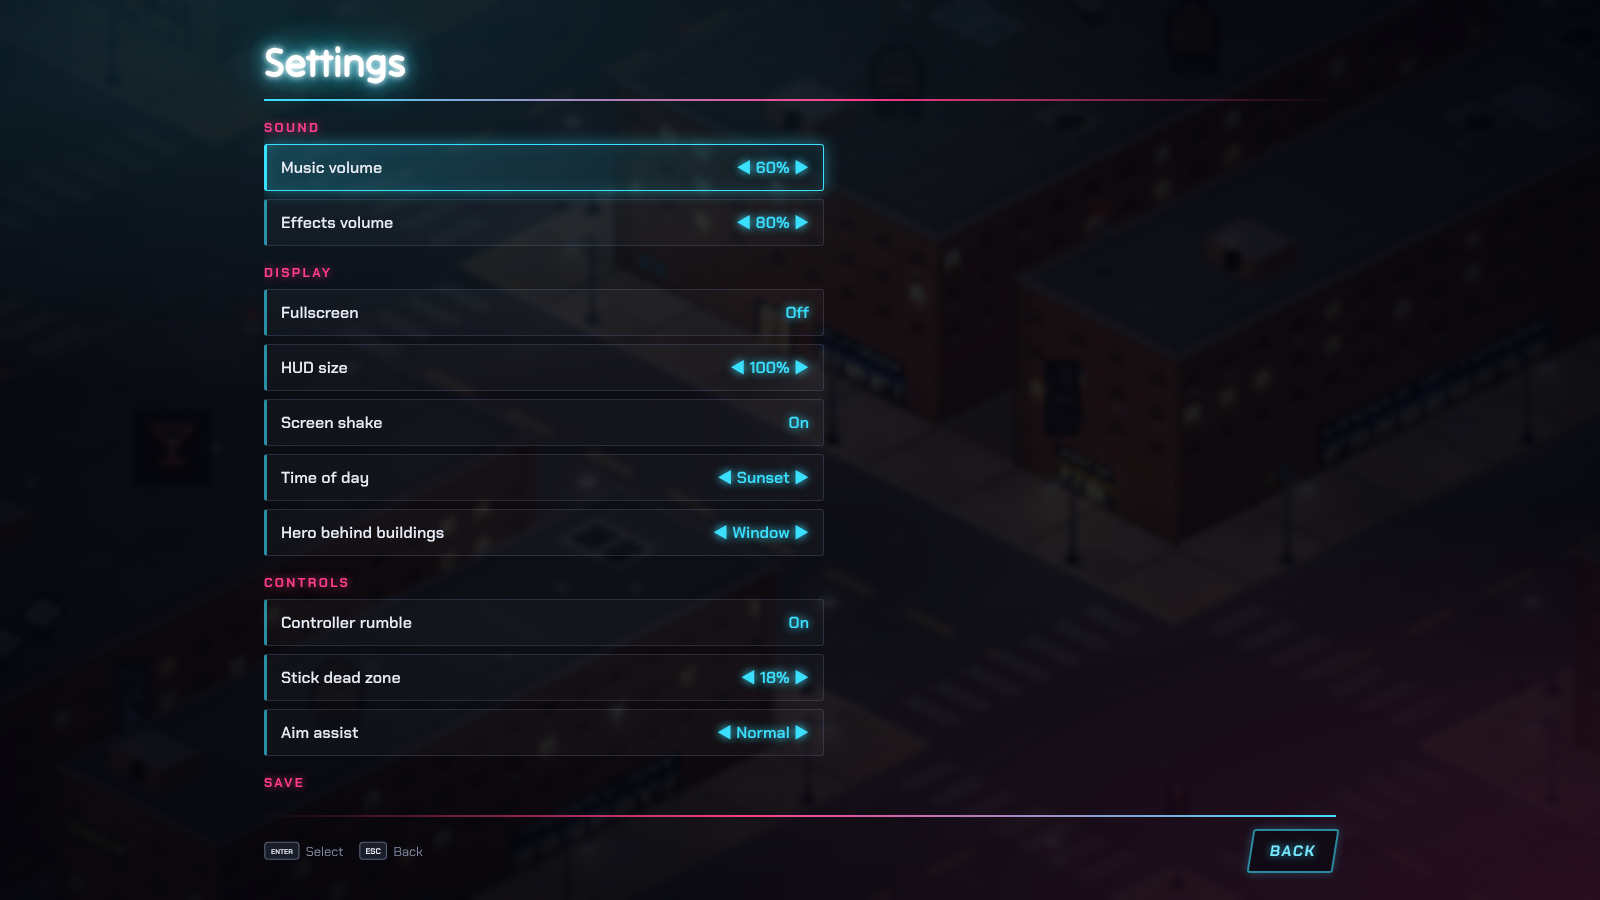
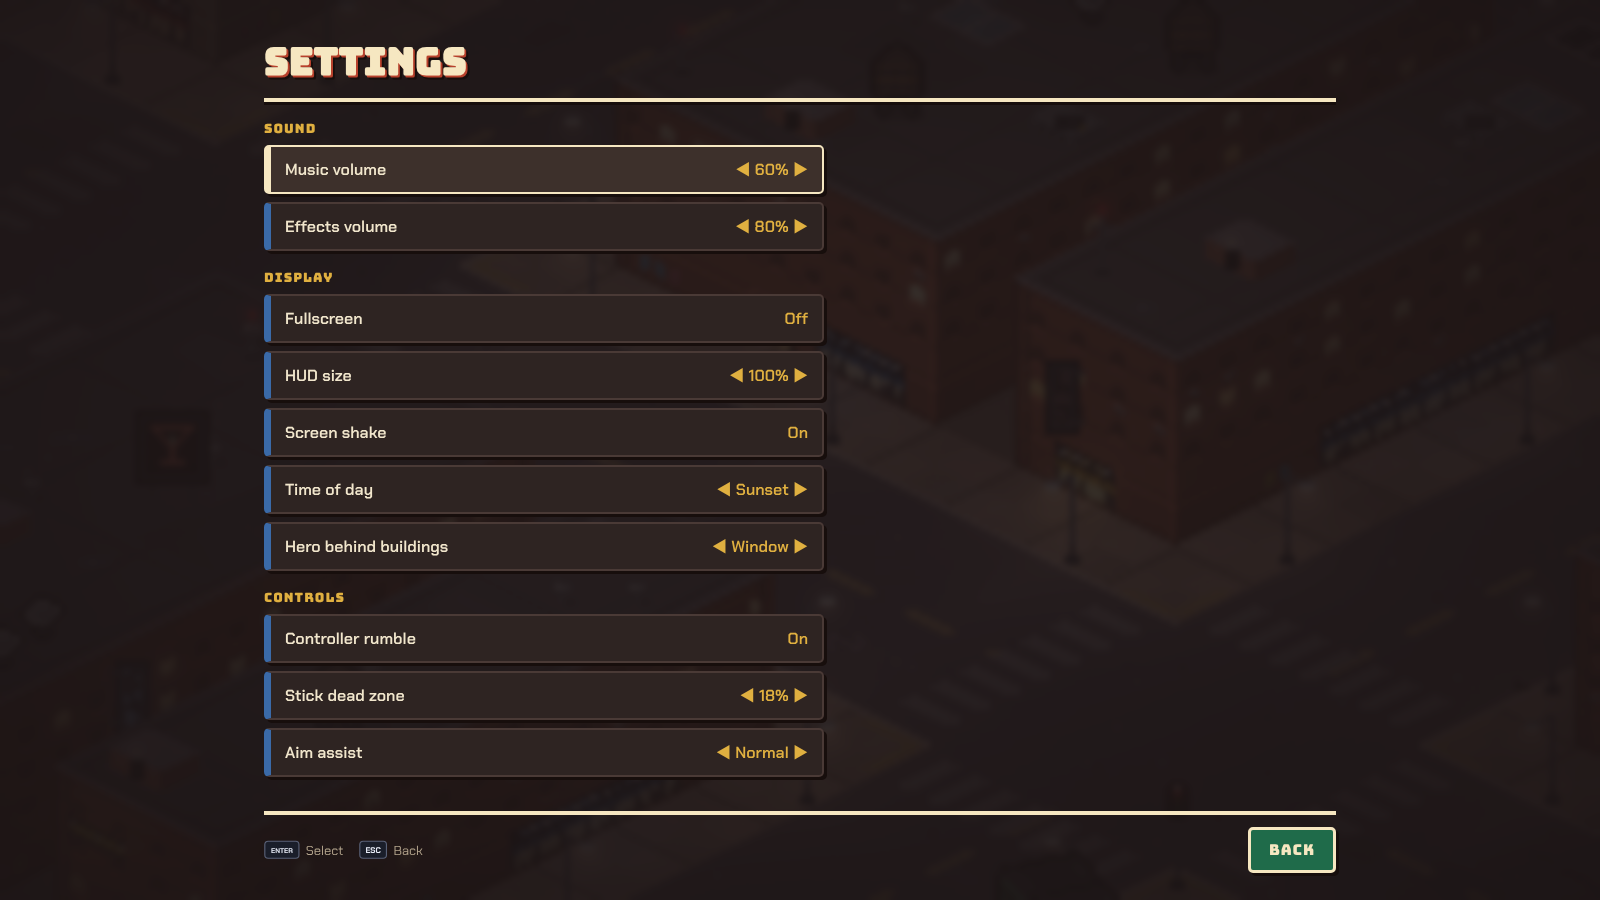
Pause menu and HUD in the painted-sign style
The pause menu matches the title: cream sign lettering with a brick
shadow, green plate buttons, cards with a hard drop shadow, no glow.
The HUD keeps its layout; its plates, outlines and big lettering are
painted with hard shadows instead of neon. The hint also sits clear of
the boss name now.

Claude-Session: https://claude.ai/code/session_01TQrqJid8SEs5fJFtrpg3VS

Changed region(s): [[0.1562, 0.0311, 0.8438, 0.8711], [0.1562, 0.9022, 0.8438, 0.9956]]

diff --git a/dist/gravitation.html b/dist/gravitation.html
@@ -181,6 +181,32 @@ button{font-family:inherit;color:inherit}
 #title .mbtn[disabled]{opacity:.5;background:#4a4a4a;box-shadow:4px 4px 0 #2a1614}
 #title .padstat{color:#e8dcc0;text-shadow:1px 1px 0 #2a1614}
 #title .padstat.ok .dot{background:#6fd08a;box-shadow:none}#title .padstat.warn .dot{box-shadow:none}
+/* ---------- pause menu: painted-sign look to match the title (no glow). Scoped to #pause so it wins over the neon theme above. ---------- */
+#pause{--gold:#e0b040;--good:#5aa8e0;--evil:#d0503a;--ink:#f1e6cc;--dim:#b5a68e;background:rgba(30,22,22,.9);backdrop-filter:blur(3px);color:var(--ink)}
+#pause .phead{border-bottom:4px solid #f6e7c1;border-image:none;box-shadow:0 3px 0 #170e0c}
+#pause .pfoot{border-top:4px solid #f6e7c1;border-image:none}
+#pause .ptitle{font-family:"Bungee","Impact","Arial Black",var(--font-body);font-size:38px;color:#f6e7c1;text-shadow:.05em .05em 0 #b8412c,.1em .1em 0 #170e0c}
+#pause .tab{font-family:"Bungee","Impact","Arial Black",var(--font-body);font-weight:400;letter-spacing:.06em;transform:none;border:3px solid transparent;border-radius:5px;color:var(--dim);text-shadow:none;box-shadow:none;background:transparent}
+#pause .tab.sel{color:#f6e7c1;background:#1f6b4a;border-color:#f6e7c1;box-shadow:3px 3px 0 #170e0c}
+#pause .tab.focus{border-color:#e0b040;box-shadow:3px 3px 0 #170e0c}
+#pause .stats b,#pause .col h3,#pause .card.can .st,#pause .set .v,#pause .ctl h3{text-shadow:none}
+#pause .col{--cc:#e0b040}#pause .col.good{--cc:var(--good)}#pause .col.evil{--cc:var(--evil)}
+#pause .card,#pause .set,#pause .look{background:#2e2422;border:2px solid #4a3a36;border-radius:5px;box-shadow:3px 3px 0 #170e0c}
+#pause .card{border-left:7px solid var(--cc)}
+#pause .card .ds{color:#d2c4a8}
+#pause .card:hover,#pause .card.focus,#pause .set:hover,#pause .set.focus,#pause .look:hover,#pause .look.focus{background:#3d302b;border-color:#f6e7c1;box-shadow:3px 3px 0 #170e0c}
+#pause .card:hover,#pause .card.focus{border-left-color:var(--cc)}
+#pause .pips i{background:#4a3a36}#pause .pips i.f{background:#e0b040;box-shadow:none}
+#pause .sethead{color:#e0b040;text-shadow:none;font-family:"Bungee","Impact","Arial Black",var(--font-body);font-weight:400;letter-spacing:.08em}
+#pause .set{border-left:7px solid #3a6aa8}#pause .set.warn{border-left-color:#d0503a}
+#pause .set .v{color:#e0b040}
+#pause .ctl h3{color:#e0b040}#pause .ctl>div:nth-child(2) h3{color:#d0503a}
+#pause .ctl li span.d{color:#d2c4a8}
+#pause .bind:hover,#pause .bind.focus{border-color:#e0b040;background:rgba(224,176,64,.12);box-shadow:none}
+#pause .look.on{border-color:#e0b040}#pause .look.on .st{color:#e0b040}
+#pause .pbtn{font-family:"Bungee","Impact","Arial Black",var(--font-body);font-weight:400;letter-spacing:.06em;transform:none;border:3px solid #f6e7c1;border-radius:5px;color:#f6e7c1;background:#1f6b4a;text-shadow:none;box-shadow:3px 3px 0 #170e0c}
+#pause #bQuit{background:#a8402c}#pause .rst{background:#8a6420}
+#pause .pbtn:hover,#pause .pbtn.focus{color:#2a1614;background:#e0b040;border-color:#f6e7c1;box-shadow:3px 3px 0 #170e0c}
 </style>
 </head>
 <body>
@@ -8235,7 +8261,7 @@ function drawHUD(dt) {
     if (fr > 0) { slantPath(x, y, w * fr + bh2 * .45 * (1 - fr), bh2, .45); neonFill(bc, .9); slantPath(x + bh2 * .32, y + bh2 * .14, w * fr + bh2 * .45 * (1 - fr) - bh2 * .2, bh2 * .28, .45); ctx.fillStyle = 'rgba(255,255,255,.28)'; ctx.fill(); }
     slantPath(x + w * .5 - 1, y, 2 + bh2 * .45, bh2, .45); ctx.fillStyle = 'rgba(255,255,255,.75)'; ctx.fill();
     if (b.stagger > 0) glowText('STAGGERED · DOUBLE DAMAGE', W / 2, y + 28 * hs, 12 * hs, NEON.gold, 'center', 700);
-    bottomY = y - 40 * hs;
+    bottomY = y - 56 * hs;   // keeps the hint plate clear of the boss name
   }
   // ---- abilities + hint
   if (G.mode === 'play' || G.mode === 'dead') drawAbilities();
@@ -8347,6 +8373,35 @@ function drawCityMap() {
   if (G.marker) { ctx.fillStyle = '#38d0ff'; circle(x + G.marker.x * sc, y + G.marker.y * sc, 5); }
   ctx.save(); ctx.translate(x + P.x * sc, y + P.y * sc); ctx.rotate(P.ang); ctx.fillStyle = kcol(); ctx.beginPath(); ctx.moveTo(10, 0); ctx.lineTo(-7, -7); ctx.lineTo(-3, 0); ctx.lineTo(-7, 7); ctx.fill(); ctx.restore();
   glyphLine([{ a: 'back' }, { t: 'Close' }], x + mw - 90 * hs, y - 62 * hs, 22 * hs);
+}
+
+/* ============================== 12b HUD, PAINTED ============================== */
+/* The HUD in the ordinary-city look, matching the title screen and pause menu: flat painted plates with a hard drop
+   shadow instead of glowing neon edges. Same layout; only the helpers that 12_hud.js draws with are replaced, plus
+   its colours (NEON keeps its old name). */
+Object.assign(NEON, { cyan: '#4a90d0', pink: '#c8452e', gold: '#e0b040', purple: '#8a64b8', green: '#3a9a64' });
+const PAINT = { ink: '#f6e7c1', shadow: '#170e0c', panel: '#2e2422' };
+const SIGN_FONT = '"Bungee","Impact","Arial Black",sans-serif';
+function slantPath(x, y, w, h) { rr(x, y, w, h, Math.min(5 * hs, h / 3)); }   // plain sign plates, no lean
+function neonStroke(col, a = 1, lw = 1.5 * hs) {                               // a painted outline with a hard shadow
+  ctx.lineJoin = 'round';
+  ctx.save(); ctx.translate(2 * hs, 2 * hs); ctx.globalAlpha *= a; ctx.strokeStyle = PAINT.shadow; ctx.lineWidth = lw + hs; ctx.stroke(); ctx.restore();
+  ctx.save(); ctx.globalAlpha *= Math.min(1, a); ctx.strokeStyle = col; ctx.lineWidth = lw + hs * .5; ctx.stroke(); ctx.restore();
+}
+function neonFill(col, a = 1) {                                                 // a flat fill with a hard shadow
+  ctx.save(); ctx.translate(1.5 * hs, 1.5 * hs); ctx.globalAlpha *= Math.min(1, a); ctx.fillStyle = PAINT.shadow; ctx.fill(); ctx.restore();
+  ctx.save(); ctx.globalAlpha *= Math.min(1, a); ctx.fillStyle = col; ctx.fill(); ctx.restore();
+}
+function plate(x, y, w, h, col, a = .8, tint = .07) {                          // dark painted plate, coloured border, hard shadow
+  slantPath(x + 3 * hs, y + 3 * hs, w, h); ctx.fillStyle = 'rgba(23,14,12,.85)'; ctx.fill();
+  slantPath(x, y, w, h); ctx.fillStyle = 'rgba(46,36,34,.92)'; ctx.fill();
+  if (tint) { ctx.fillStyle = rgba(col, Math.min(.55, tint * 1.6)); ctx.fill(); }
+  ctx.strokeStyle = col; ctx.globalAlpha = Math.min(1, .55 + a * .45); ctx.lineWidth = 2 * hs; ctx.stroke(); ctx.globalAlpha = 1;
+}
+function glowText(str, x, y, px, col, align = 'left', w = 700) {               // sign lettering: solid colour over a hard shadow
+  ctx.save(); ctx.font = `${Math.round(px)}px ${SIGN_FONT}`; ctx.textAlign = align; ctx.textBaseline = 'middle';
+  const d = Math.max(1, px * .07); ctx.fillStyle = PAINT.shadow; ctx.fillText(str, x + d, y + d); ctx.fillStyle = col; ctx.fillText(str, x, y);
+  const tw = ctx.measureText(str).width; ctx.restore(); return tw;
 }
 
 /* ============================== 13 UI (DOM overlays) ============================== */

diff --git a/src/shell.html b/src/shell.html
@@ -181,6 +181,32 @@ button{font-family:inherit;color:inherit}
 #title .mbtn[disabled]{opacity:.5;background:#4a4a4a;box-shadow:4px 4px 0 #2a1614}
 #title .padstat{color:#e8dcc0;text-shadow:1px 1px 0 #2a1614}
 #title .padstat.ok .dot{background:#6fd08a;box-shadow:none}#title .padstat.warn .dot{box-shadow:none}
+/* ---------- pause menu: painted-sign look to match the title (no glow). Scoped to #pause so it wins over the neon theme above. ---------- */
+#pause{--gold:#e0b040;--good:#5aa8e0;--evil:#d0503a;--ink:#f1e6cc;--dim:#b5a68e;background:rgba(30,22,22,.9);backdrop-filter:blur(3px);color:var(--ink)}
+#pause .phead{border-bottom:4px solid #f6e7c1;border-image:none;box-shadow:0 3px 0 #170e0c}
+#pause .pfoot{border-top:4px solid #f6e7c1;border-image:none}
+#pause .ptitle{font-family:"Bungee","Impact","Arial Black",var(--font-body);font-size:38px;color:#f6e7c1;text-shadow:.05em .05em 0 #b8412c,.1em .1em 0 #170e0c}
+#pause .tab{font-family:"Bungee","Impact","Arial Black",var(--font-body);font-weight:400;letter-spacing:.06em;transform:none;border:3px solid transparent;border-radius:5px;color:var(--dim);text-shadow:none;box-shadow:none;background:transparent}
+#pause .tab.sel{color:#f6e7c1;background:#1f6b4a;border-color:#f6e7c1;box-shadow:3px 3px 0 #170e0c}
+#pause .tab.focus{border-color:#e0b040;box-shadow:3px 3px 0 #170e0c}
+#pause .stats b,#pause .col h3,#pause .card.can .st,#pause .set .v,#pause .ctl h3{text-shadow:none}
+#pause .col{--cc:#e0b040}#pause .col.good{--cc:var(--good)}#pause .col.evil{--cc:var(--evil)}
+#pause .card,#pause .set,#pause .look{background:#2e2422;border:2px solid #4a3a36;border-radius:5px;box-shadow:3px 3px 0 #170e0c}
+#pause .card{border-left:7px solid var(--cc)}
+#pause .card .ds{color:#d2c4a8}
+#pause .card:hover,#pause .card.focus,#pause .set:hover,#pause .set.focus,#pause .look:hover,#pause .look.focus{background:#3d302b;border-color:#f6e7c1;box-shadow:3px 3px 0 #170e0c}
+#pause .card:hover,#pause .card.focus{border-left-color:var(--cc)}
+#pause .pips i{background:#4a3a36}#pause .pips i.f{background:#e0b040;box-shadow:none}
+#pause .sethead{color:#e0b040;text-shadow:none;font-family:"Bungee","Impact","Arial Black",var(--font-body);font-weight:400;letter-spacing:.08em}
+#pause .set{border-left:7px solid #3a6aa8}#pause .set.warn{border-left-color:#d0503a}
+#pause .set .v{color:#e0b040}
+#pause .ctl h3{color:#e0b040}#pause .ctl>div:nth-child(2) h3{color:#d0503a}
+#pause .ctl li span.d{color:#d2c4a8}
+#pause .bind:hover,#pause .bind.focus{border-color:#e0b040;background:rgba(224,176,64,.12);box-shadow:none}
+#pause .look.on{border-color:#e0b040}#pause .look.on .st{color:#e0b040}
+#pause .pbtn{font-family:"Bungee","Impact","Arial Black",var(--font-body);font-weight:400;letter-spacing:.06em;transform:none;border:3px solid #f6e7c1;border-radius:5px;color:#f6e7c1;background:#1f6b4a;text-shadow:none;box-shadow:3px 3px 0 #170e0c}
+#pause #bQuit{background:#a8402c}#pause .rst{background:#8a6420}
+#pause .pbtn:hover,#pause .pbtn.focus{color:#2a1614;background:#e0b040;border-color:#f6e7c1;box-shadow:3px 3px 0 #170e0c}
 </style>
 </head>
 <body>

diff --git a/src/js/12b_hud_paint.js b/src/js/12b_hud_paint.js
@@ -1,0 +1,28 @@
+/* ============================== 12b HUD, PAINTED ============================== */
+/* The HUD in the ordinary-city look, matching the title screen and pause menu: flat painted plates with a hard drop
+   shadow instead of glowing neon edges. Same layout; only the helpers that 12_hud.js draws with are replaced, plus
+   its colours (NEON keeps its old name). */
+Object.assign(NEON, { cyan: '#4a90d0', pink: '#c8452e', gold: '#e0b040', purple: '#8a64b8', green: '#3a9a64' });
+const PAINT = { ink: '#f6e7c1', shadow: '#170e0c', panel: '#2e2422' };
+const SIGN_FONT = '"Bungee","Impact","Arial Black",sans-serif';
+function slantPath(x, y, w, h) { rr(x, y, w, h, Math.min(5 * hs, h / 3)); }   // plain sign plates, no lean
+function neonStroke(col, a = 1, lw = 1.5 * hs) {                               // a painted outline with a hard shadow
+  ctx.lineJoin = 'round';
+  ctx.save(); ctx.translate(2 * hs, 2 * hs); ctx.globalAlpha *= a; ctx.strokeStyle = PAINT.shadow; ctx.lineWidth = lw + hs; ctx.stroke(); ctx.restore();
+  ctx.save(); ctx.globalAlpha *= Math.min(1, a); ctx.strokeStyle = col; ctx.lineWidth = lw + hs * .5; ctx.stroke(); ctx.restore();
+}
+function neonFill(col, a = 1) {                                                 // a flat fill with a hard shadow
+  ctx.save(); ctx.translate(1.5 * hs, 1.5 * hs); ctx.globalAlpha *= Math.min(1, a); ctx.fillStyle = PAINT.shadow; ctx.fill(); ctx.restore();
+  ctx.save(); ctx.globalAlpha *= Math.min(1, a); ctx.fillStyle = col; ctx.fill(); ctx.restore();
+}
+function plate(x, y, w, h, col, a = .8, tint = .07) {                          // dark painted plate, coloured border, hard shadow
+  slantPath(x + 3 * hs, y + 3 * hs, w, h); ctx.fillStyle = 'rgba(23,14,12,.85)'; ctx.fill();
+  slantPath(x, y, w, h); ctx.fillStyle = 'rgba(46,36,34,.92)'; ctx.fill();
+  if (tint) { ctx.fillStyle = rgba(col, Math.min(.55, tint * 1.6)); ctx.fill(); }
+  ctx.strokeStyle = col; ctx.globalAlpha = Math.min(1, .55 + a * .45); ctx.lineWidth = 2 * hs; ctx.stroke(); ctx.globalAlpha = 1;
+}
+function glowText(str, x, y, px, col, align = 'left', w = 700) {               // sign lettering: solid colour over a hard shadow
+  ctx.save(); ctx.font = `${Math.round(px)}px ${SIGN_FONT}`; ctx.textAlign = align; ctx.textBaseline = 'middle';
+  const d = Math.max(1, px * .07); ctx.fillStyle = PAINT.shadow; ctx.fillText(str, x + d, y + d); ctx.fillStyle = col; ctx.fillText(str, x, y);
+  const tw = ctx.measureText(str).width; ctx.restore(); return tw;
+}

diff --git a/src/js/12_hud.js b/src/js/12_hud.js
@@ -249,7 +249,7 @@ function drawHUD(dt) {
     if (fr > 0) { slantPath(x, y, w * fr + bh2 * .45 * (1 - fr), bh2, .45); neonFill(bc, .9); slantPath(x + bh2 * .32, y + bh2 * .14, w * fr + bh2 * .45 * (1 - fr) - bh2 * .2, bh2 * .28, .45); ctx.fillStyle = 'rgba(255,255,255,.28)'; ctx.fill(); }
     slantPath(x + w * .5 - 1, y, 2 + bh2 * .45, bh2, .45); ctx.fillStyle = 'rgba(255,255,255,.75)'; ctx.fill();
     if (b.stagger > 0) glowText('STAGGERED · DOUBLE DAMAGE', W / 2, y + 28 * hs, 12 * hs, NEON.gold, 'center', 700);
-    bottomY = y - 40 * hs;
+    bottomY = y - 56 * hs;   // keeps the hint plate clear of the boss name
   }
   // ---- abilities + hint
   if (G.mode === 'play' || G.mode === 'dead') drawAbilities();

diff --git a/HANDOFF.md b/HANDOFF.md
@@ -31,7 +31,7 @@ A prototype of a top-down superhero/supervillain game inspired by inFamous, GTA 
 - **The main character is Bary Plumb** (the user's spelling: one r). No story text exists yet; rule 5 still holds.
 - **Title screen:** restyled to match the ordinary city: the name as a painted cream sign with a brick-red drop shadow (font Bungee), buttons as green street-sign plates, mustard when selected. No glow. CSS block at the end of the style section in shell.html, scoped to `#title`.
 - **Gangs look industrial, not techno (user's words).** Hideout roof signs are rusting steel plates with the gang's mark painted on (lit by a work lamp after dark); window, skylight and doorway light is plain warm bulb light, not gang-coloured glow. The older Hideouts note below still says "neon emblem": read it as this painted sign.
-- **Still neon-styled (the user asked only for the main menu):** the pause menu and the HUD.
+- **Pause menu and HUD are painted signs too** (no glow): the pause styles are a `#pause`-scoped block at the end of the style section in shell.html; the HUD keeps its layout and `12b_hud_paint.js` replaces the drawing helpers (`plate`, `neonStroke`, `neonFill`, `glowText`, `slantPath`) and the `NEON` colours. The older "In-game HUD look" note below describes the neon version this replaced.
 - **Enemy looks are on hold (user's decision).** The gang members, elites and bosses still have the older, more techno look (glowing visors and lenses). The user wants a distinctive look that does not turn out generic again and will describe it or send drawings first. **Do not redesign the enemies until they do.**
 - **Pixel art:** buildings (lit/dark windows, shopfronts, neon signs, doors, rooftop clutter), hideouts, characters (8 facings, 4-frame walk), vehicles, props and combat effects.
 - **Shades rule (agreed with the user, keep it):** everyone you are meant to fight wears sunglasses: grunts, brutes, elites, cops, and every current and future boss. The hero and civilians never do. Idea from the user for later: give more important enemies differently tinted or differently shaped shades. Started: the three bosses each have their own shape and tint (`BOSS_LOOK` in 11c_sprites.js: Mr. Cinder round goggles with fire reflected in them, Krag a narrow red slit with a scar, The Architect an angular purple visor); elites have glowing lenses in their gang colour; ordinary gang members and cops share one shape.
